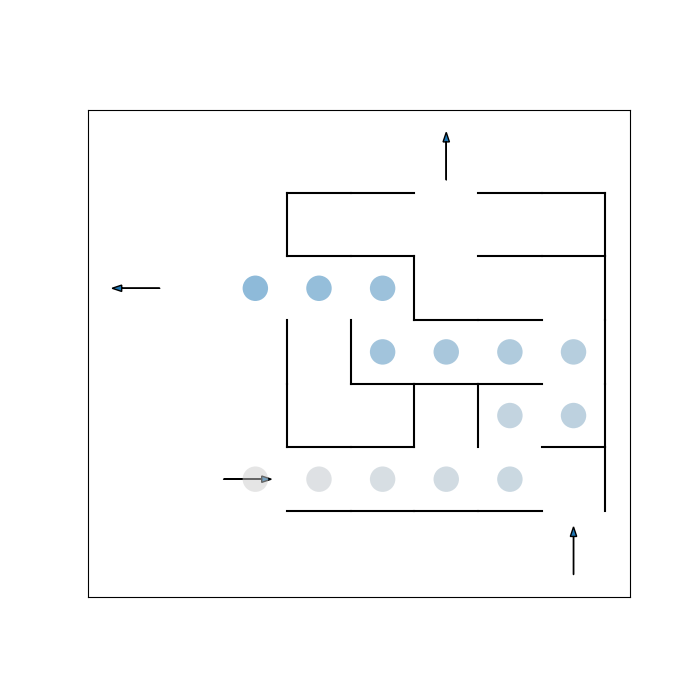
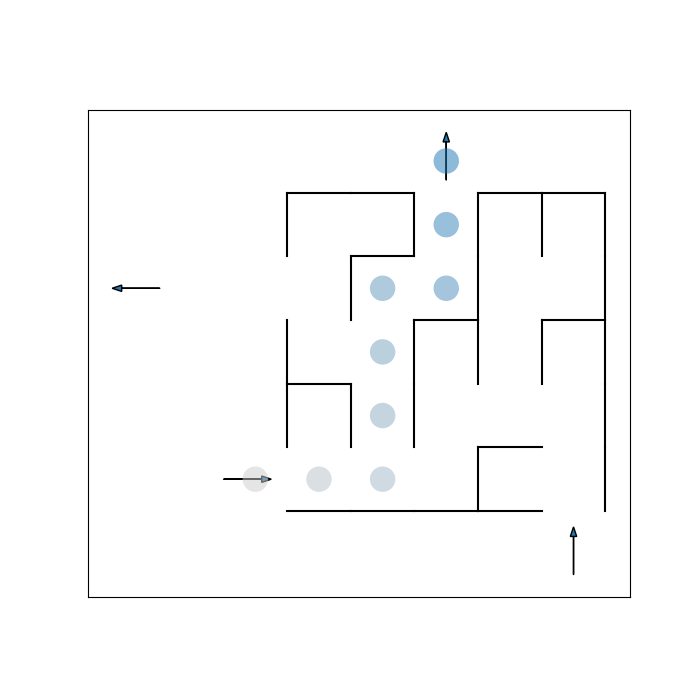
feat : implement kruskal generator

diff --git a/generator/kruskalGenerator.py b/generator/kruskalGenerator.py
@@ -9,26 +9,122 @@
 
 from maze.maze import Maze
 from maze.util import Coordinates
+import random
 
-
-
-
-class KruskalMazeGenerator():
+class Edge:
     """
-    Kruskal's algorithm maze generator.  
-    TODO: Complete the implementation (Task A)
+    Represents an edge in the graph, consisting of two vertices and a weight.
     """
-    def __init__(self, vertices):
-        self.vertices = vertices
+    def __init__(self):
         self.edges = []
     
-    def addEdge(self, u , v , weight):
-        self.graph.append([u, v, weight])
-    
-    
-        
-    
+    def addEdge(self, u, v, weight):
+        """Add an edge between two vertices with a given weight."""
+        self.edges.append((u, v, weight))
 
-    def generateMaze(self, maze:Maze):
-        # TODO: Implement this method for task A.
-        pass
+class DisjointSet:
+    """
+    Represents the disjoint-set (union-find) data structure.
+    """
+    def __init__(self, n):
+        # Initialize parent and rank arrays
+        self.parent = list(range(n))  # Each vertex is initially its own parent
+        self.rank = [0] * n  # Rank is used to keep track of the tree depth
+    
+    def find(self, u):
+        """Find the representative of the set containing u (with path compression)."""
+        if self.parent[u] != u:
+            self.parent[u] = self.find(self.parent[u])  # Path compression
+        return self.parent[u]
+    
+    def union(self, u, v):
+        """Union by rank, merges the sets containing u and v."""
+        root_u = self.find(u)
+        root_v = self.find(v)
+        
+        if root_u != root_v:
+            if self.rank[root_u] > self.rank[root_v]:
+                self.parent[root_v] = root_u
+            elif self.rank[root_u] < self.rank[root_v]:
+                self.parent[root_u] = root_v
+            else:
+                self.parent[root_v] = root_u
+                self.rank[root_u] += 1
+
+class KruskalMazeGenerator:
+    """
+    Kruskal's algorithm maze generator with weighted edges.
+    """
+    
+    def generateMaze(self, maze: Maze):
+        graph = Edge()  # Graph to store the edges
+        cells = maze.getCoords()  # All the cells (vertices) in the maze
+        num_cells = len(cells)
+        
+        # Map cell coordinates to an index for the DisjointSet (since it uses integers)
+        cell_index = {cell: idx for idx, cell in enumerate(cells)}
+        
+        # Add all the walls (edges) between neighboring cells
+        for cell in cells:
+            neighbors = maze.neighbours(cell)
+            for neighbor in neighbors:
+                if maze.hasEdge(cell, neighbor):  # Ensure an edge exists
+                    weight = maze.edgeWeight(cell, neighbor)  # Get edge weight
+                    graph.addEdge(cell, neighbor, weight)
+
+        # Initialize disjoint sets for all cells
+        disjoint_set = DisjointSet(num_cells)
+
+        # Sort the edges based on their weights (for the weighted approach)
+        graph.edges.sort(key=lambda edge: edge[2])  # Sort by the weight
+
+        # Process each edge in sorted order (Kruskal's algorithm)
+        for edge in graph.edges:
+            u, v, weight = edge
+            u_idx = cell_index[u]
+            v_idx = cell_index[v]
+
+            # If u and v are not in the same set, remove the wall between them
+            if disjoint_set.find(u_idx) != disjoint_set.find(v_idx):
+                maze.removeWall(u, v)  # Remove the wall between u and v
+                disjoint_set.union(u_idx, v_idx)  # Merge the sets
+                
+        # Add outer walls except the entrance and exit
+        self.addOuterWalls(maze)
+
+        return maze
+    
+    def addOuterWalls(self, maze: Maze):
+        """Adds outer walls to the maze except for the entrance and exit."""
+        width = maze.colNum()
+        height = maze.rowNum()
+
+        # Add walls to the top and bottom rows
+        for x in range(width):
+            top_cell = Coordinates(0, x)
+            bottom_cell = Coordinates(height - 1, x)
+            top_outer = Coordinates(-1, x)
+            bottom_outer = Coordinates(height, x)
+
+            # Add wall between outer top and top row, if not the entrance
+            if top_outer not in maze.getEntrances() and top_outer not in maze.getExits():
+                maze.addWall(top_outer, top_cell)
+
+            # Add wall between bottom row and outer bottom, if not the exit
+            if bottom_outer not in maze.getEntrances() and bottom_outer not in maze.getExits():
+                maze.addWall(bottom_cell, bottom_outer)
+
+        # Add walls to the left and right columns
+        for y in range(height):
+            left_cell = Coordinates(y, 0)
+            right_cell = Coordinates(y, width - 1)
+            left_outer = Coordinates(y, -1)
+            right_outer = Coordinates(y, width)
+
+            # Add wall between outer left and leftmost column, if not the entrance
+            if left_outer not in maze.getEntrances() and left_outer not in maze.getExits():
+                maze.addWall(left_outer, left_cell)
+
+            # Add wall between rightmost column and outer right, if not the exit
+            if right_outer not in maze.getEntrances() and right_outer not in maze.getExits():
+                maze.addWall(right_cell, right_outer)
